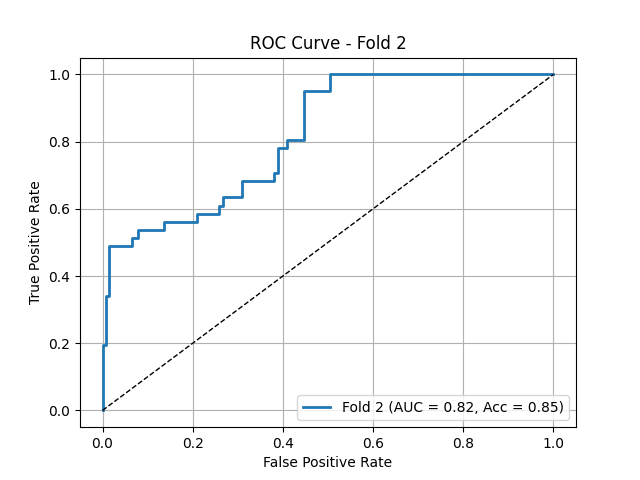
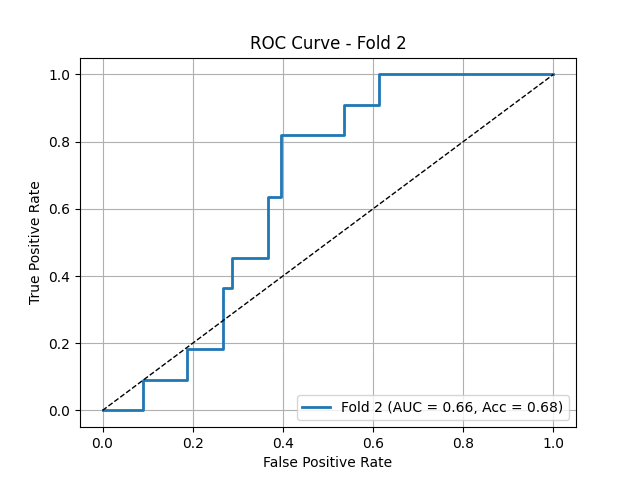
high grid distortion

diff --git a/dataset_washu2.py b/dataset_washu2.py
@@ -109,7 +109,7 @@ train_transform = A.Compose([
 
     # Nonlinear distortions
     A.ElasticTransform(alpha=30, sigma=300, alpha_affine=5, p=0.9),
-    A.GridDistortion(distort_limit=0.3, p=0.5),
+    A.GridDistortion(distort_limit=0.5, p=0.8),
     
     # Intensity-related augmentations
     A.GaussNoise(mean_range=(-0.05, 0.05), std_range=(0.001, 0.1), p=0.9),  # Slightly reduced noise
